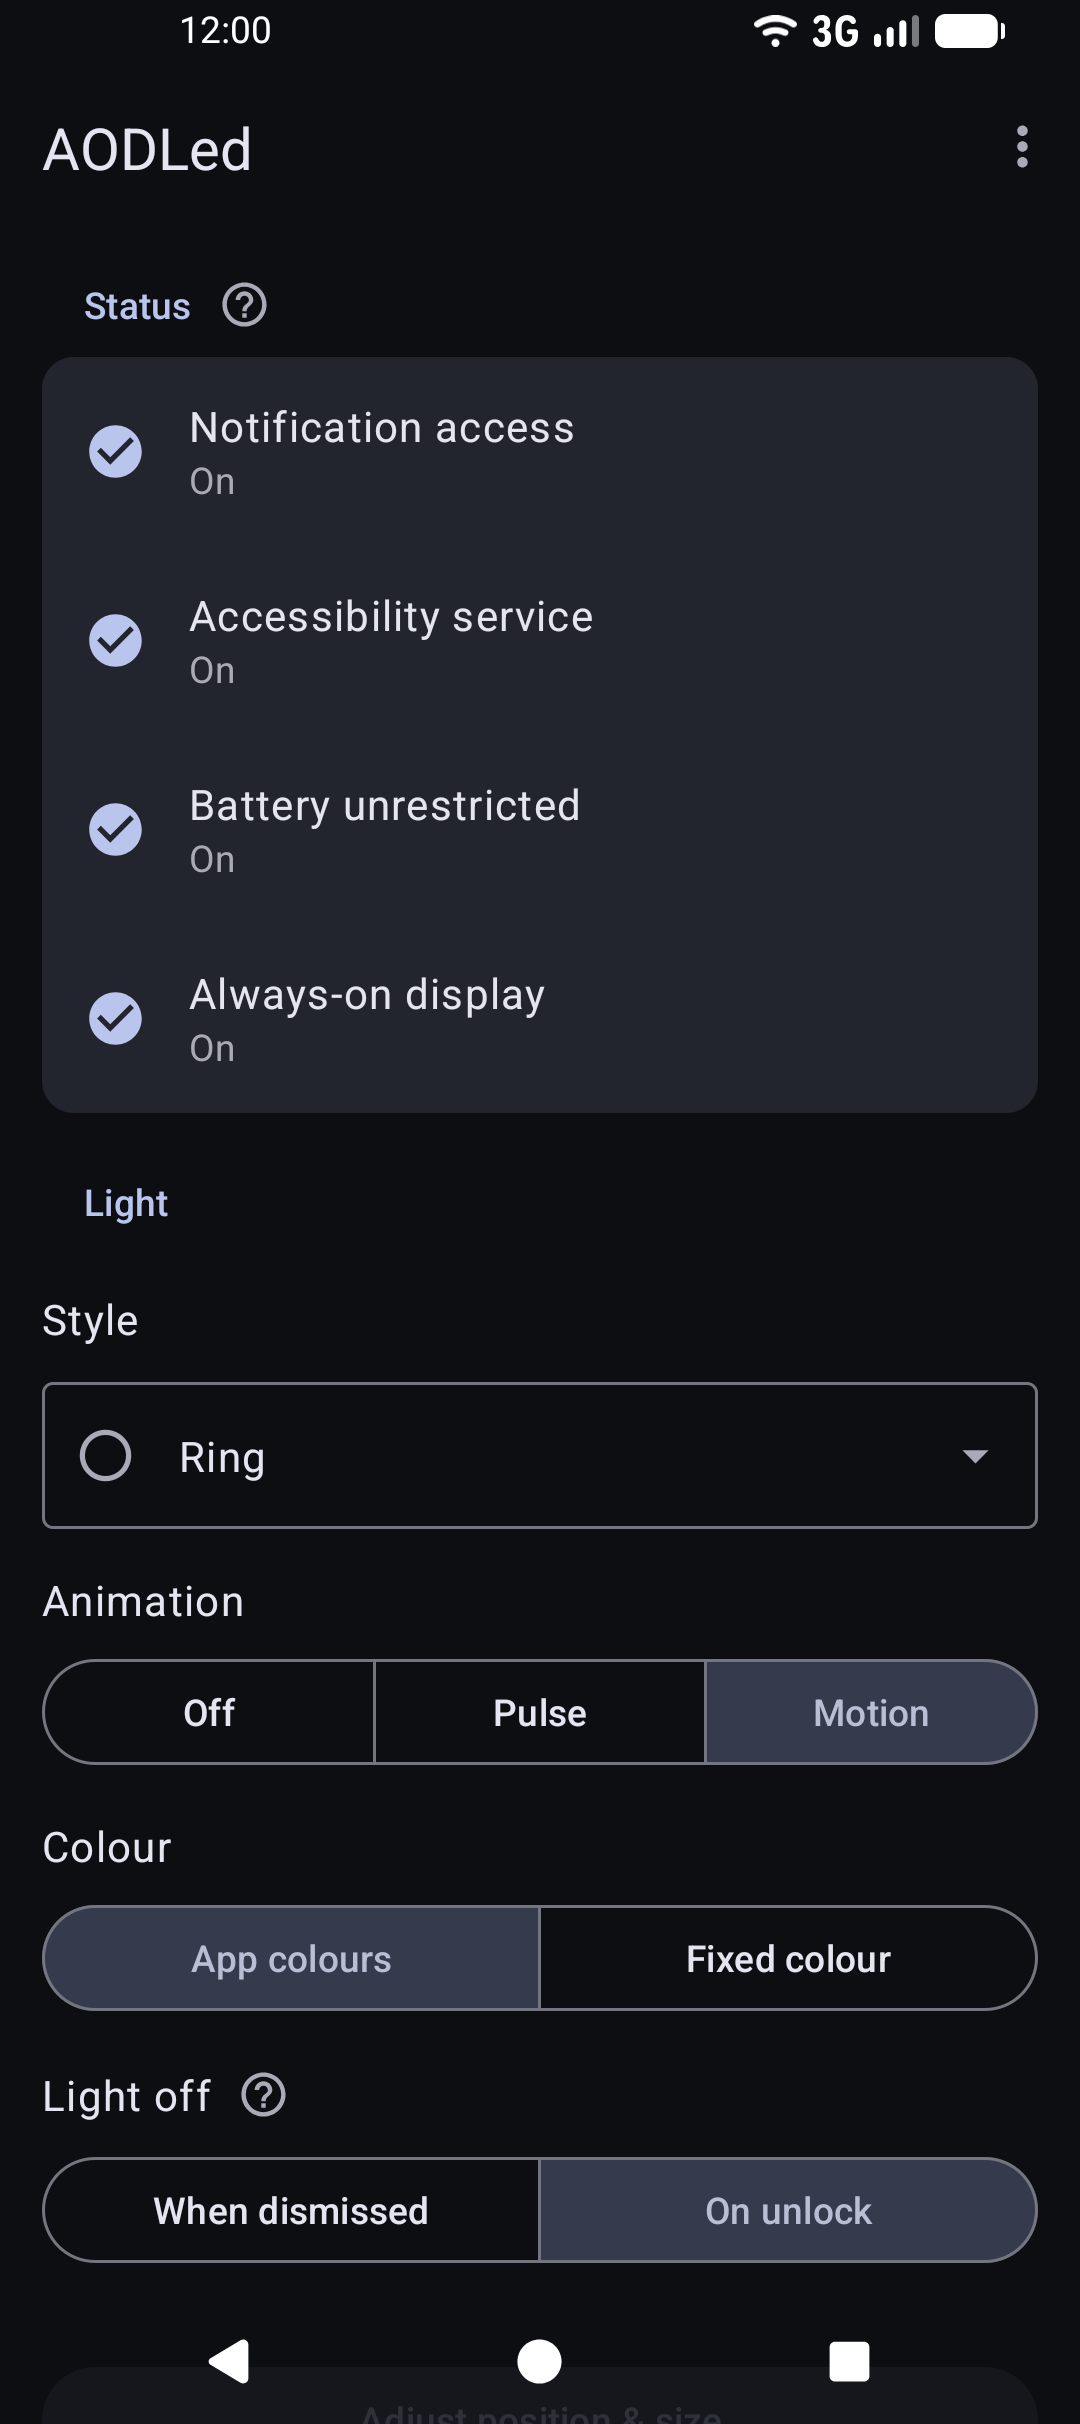
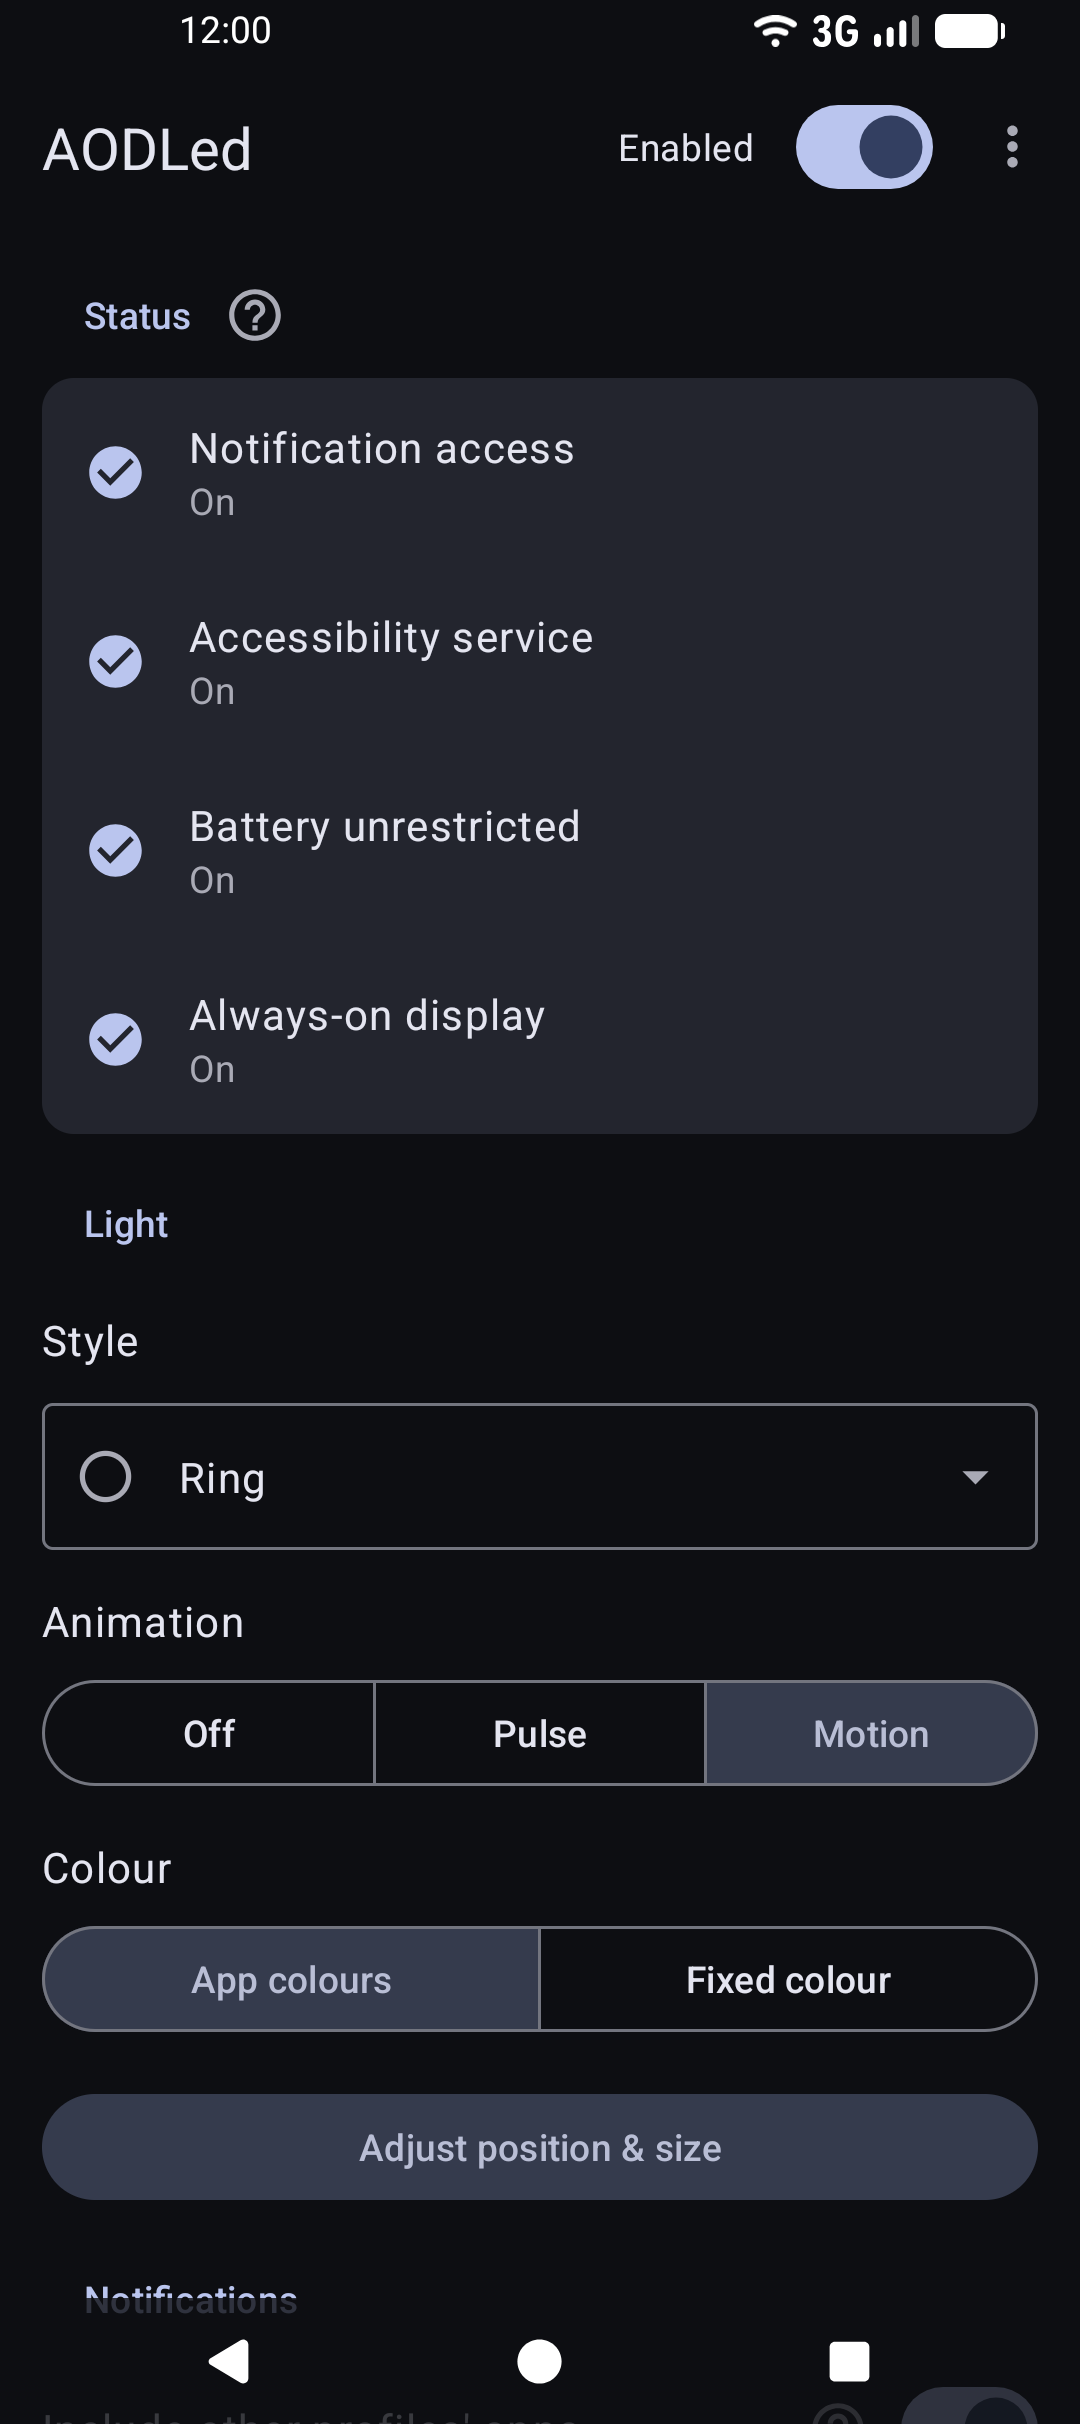
docs: preparing 0.2 release

diff --git a/README.md b/README.md
@@ -27,10 +27,12 @@
 
 ## Features
 
-- **Four styles:** a ring around the camera, a dot, an edge glow, or the cutout's own outline.
+- **Four styles:** a ring around the camera, a dot, an edge glow, or the cutout's own outline, with adjustable line thickness.
 - **Still or animated:** a pulse, a swirl, a line tracing the cutout, a comet along the edges, or a still light to save battery.
+- **Pulse your way:** blink length, blinks per burst, and a pause between bursts.
 - **App colours:** taken from each notification or app icon, or one colour of your choice.
-- **Only what matters:** silent, ongoing and Do Not Disturb notifications stay dark. Works with Private Space.
+- **Only what matters:** silent and ongoing notifications stay dark. Allow or Ignore lists pick which apps light it,
+  including Private Space apps. Respect Do Not Disturb or ignore it.
 - **Turns itself off:** when you dismiss the notification, or as soon as you unlock.
 - **Drag to place:** a full-screen editor that uses the same drawing code as the always-on display.
 - **Burn-in care:** the light moves a few pixels each time the screen turns off.
@@ -48,6 +50,8 @@ Pull requests are welcome, especially fixes and support for other phones. New fe
 so please open an issue to talk about one before you build it.
 
 ## Works on
+
+**Needs a phone with an always-on display**, usually one with an OLED screen.
 
 Pixel 10a with GrapheneOS (Android 17). Needs Android 12 or newer.
 
